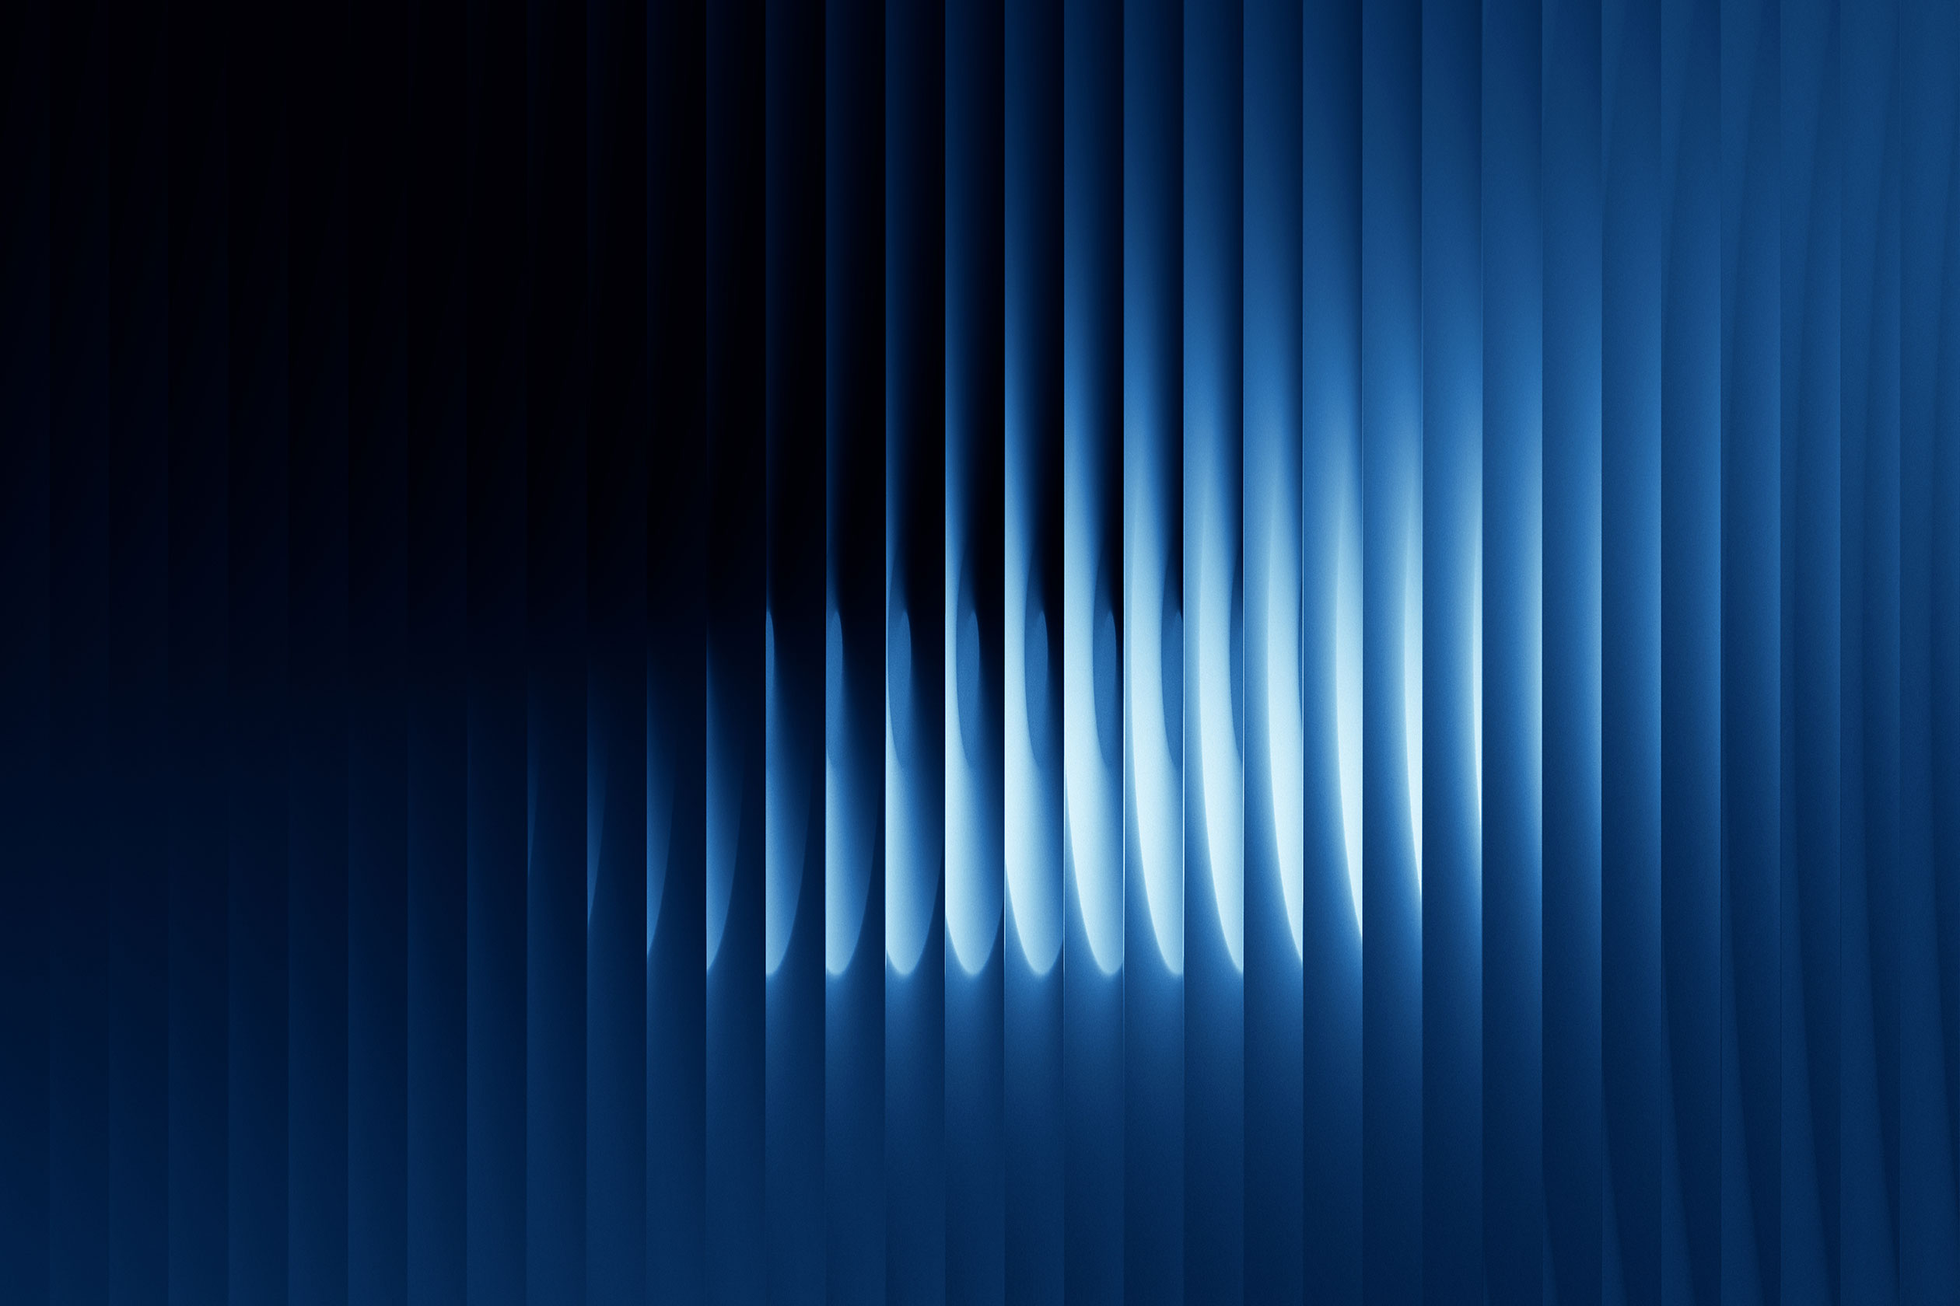
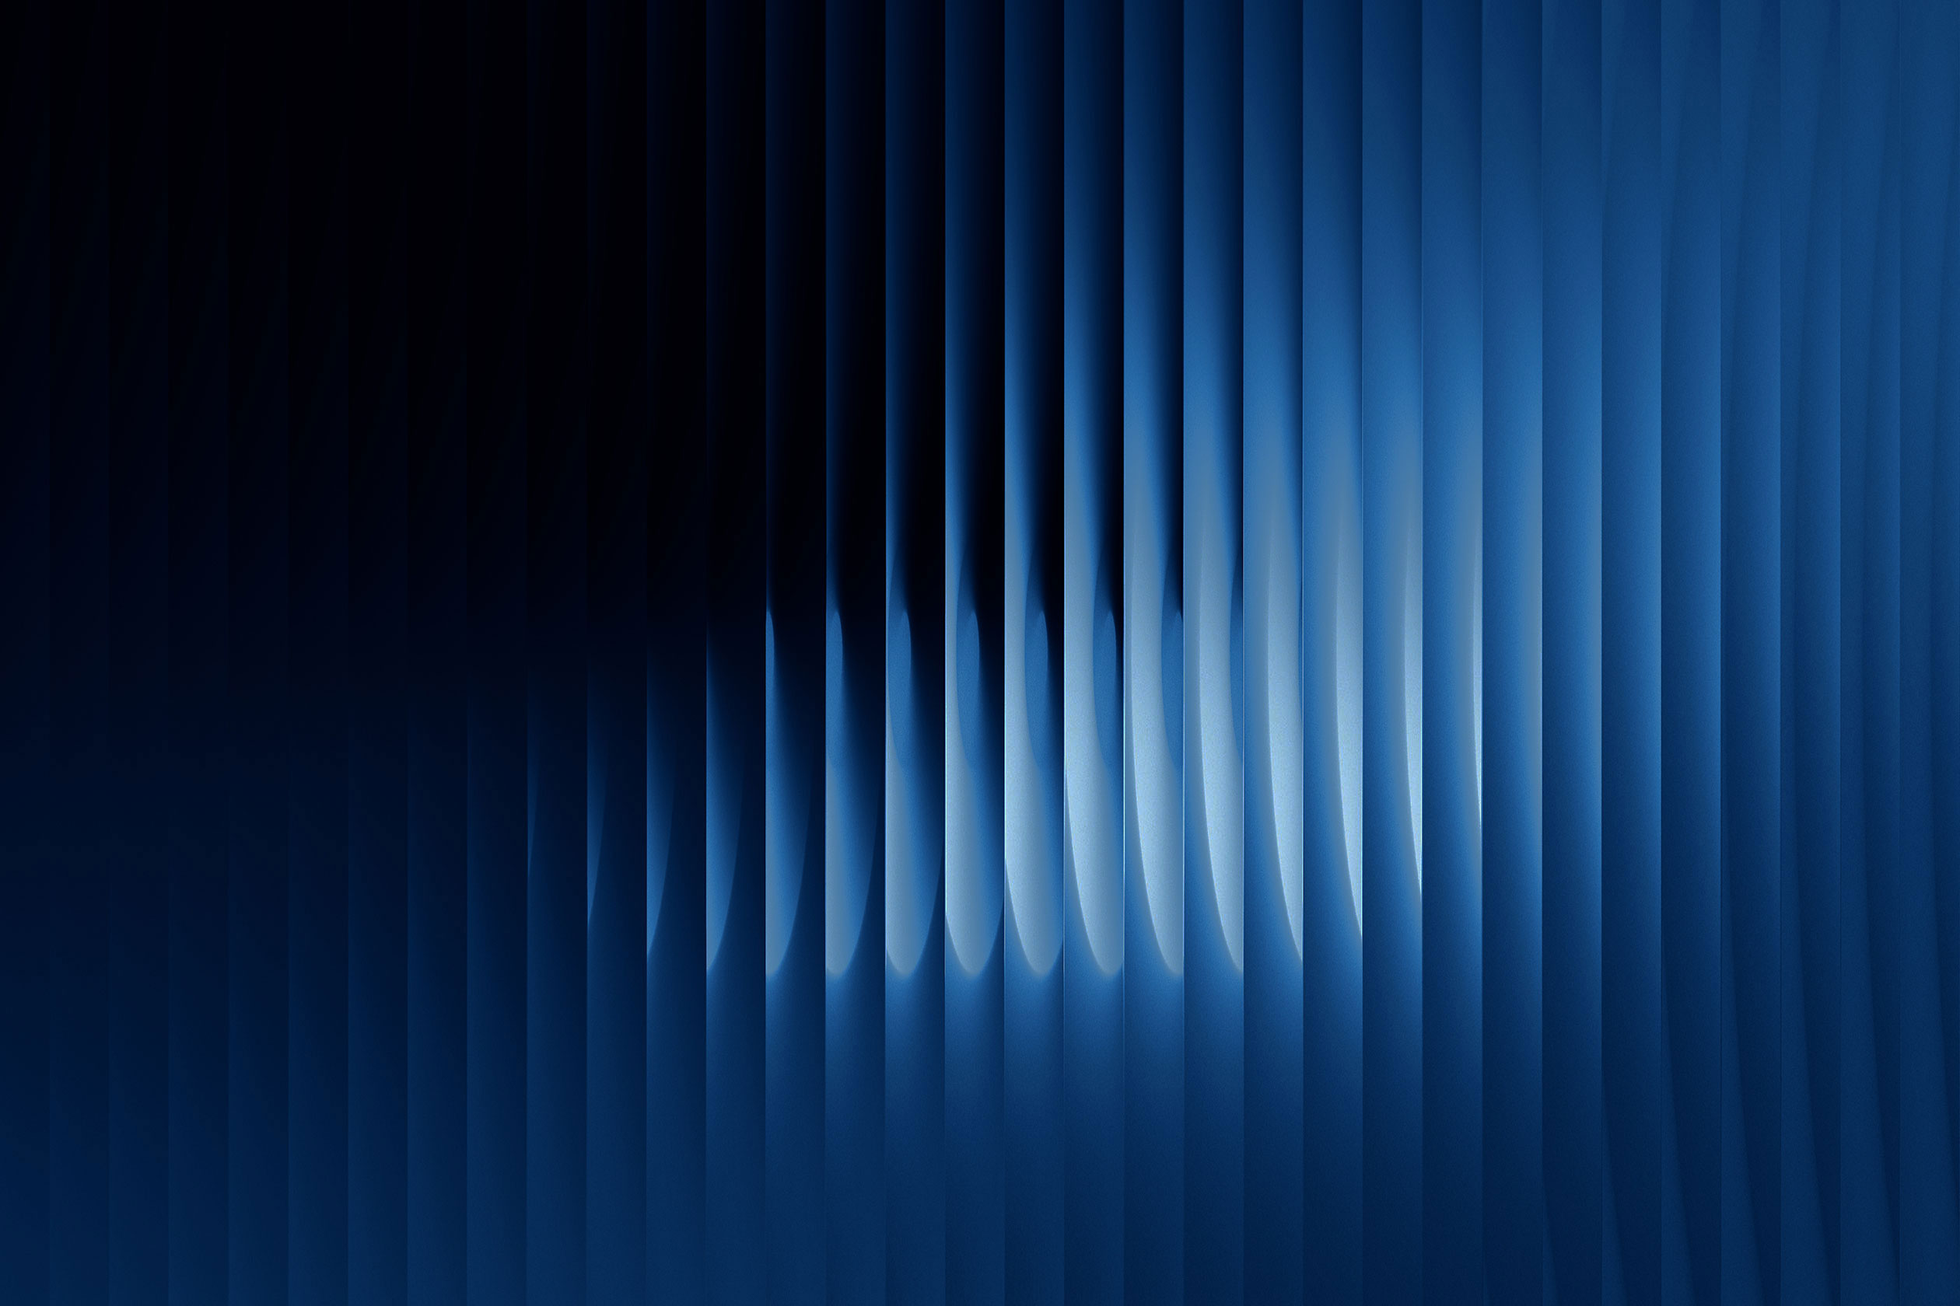
Modified dark background image to reduce the very bright areas a bit. Respecting fortify config features: deactivate registration, password resets and email verification via fortify features, respecting these changes in back- and frontend.

Changed region(s): [[0.3714, 0.3405, 0.8357, 0.7429]]

diff --git a/resources/app/pages/Auth/Login.vue b/resources/app/pages/Auth/Login.vue
@@ -1,6 +1,6 @@
 <script setup lang="ts">
-import { Form, Head, Link } from "@inertiajs/vue3";
-import { ref } from "vue";
+import { Form, Head, Link, usePage } from "@inertiajs/vue3";
+import { computed, ref } from "vue";
 import Checkbox from "Components/Form/Checkbox.vue";
 import FormGroup from "Components/Form/FormGroup.vue";
 import FormLegend from "Components/Form/FormLegend.vue";
@@ -12,9 +12,9 @@ import LoadingSpinner from "Components/Visual/LoadingSpinner.vue";
 defineOptions({ layout: NarrowLayout });
 defineProps<{
     status?: string;
-    canResetPassword: boolean;
-    canRegister: boolean;
 }>();
+const page = usePage();
+const features = computed(() => page.props.features);
 const showPassword = ref(false);
 </script>
 
@@ -23,7 +23,6 @@ const showPassword = ref(false);
         ><title>{{ $t("pages.login.title") }}</title></Head
     >
     <headline>{{ $t("pages.login.title") }}</headline>
-    Status: {{ status }}<br />
     <Form action="/login" method="post" class="form" #default="{ errors, processing }">
         <form-legend :required="true" />
         <form-group
@@ -64,9 +63,15 @@ const showPassword = ref(false);
         </form-group>
         <form-group>
             <link-group :label="$t('pages.login.nav-label')">
-                <Link v-if="canRegister" class="text-link" href="/register">{{ $t("pages.register.link") }}</Link>
-                <Link v-if="canResetPassword" class="text-link" href="/forgot">{{ $t("pages.forgot.link") }}</Link>
-                <Link class="text-link" href="/resend-verification">{{ $t("pages.resend-verification.link") }}</Link>
+                <Link v-if="features.registration" class="text-link" href="/register">{{
+                    $t("pages.register.link")
+                }}</Link>
+                <Link v-if="features.resetPasswords" class="text-link" href="/forgot">{{
+                    $t("pages.forgot.link")
+                }}</Link>
+                <Link v-if="features.emailVerification" class="text-link" href="/resend-verification">{{
+                    $t("pages.resend-verification.link")
+                }}</Link>
             </link-group>
         </form-group>
     </Form>

diff --git a/resources/app/pages/Auth/Forgot.vue b/resources/app/pages/Auth/Forgot.vue
@@ -1,6 +1,6 @@
 <script setup lang="ts">
-import { Form, Head, Link } from "@inertiajs/vue3";
-import { ref } from "vue";
+import { Form, Head, Link, usePage } from "@inertiajs/vue3";
+import { computed, ref } from "vue";
 import FormGroup from "Components/Form/FormGroup.vue";
 import FormLegend from "Components/Form/FormLegend.vue";
 import RadioButtonGroup from "Components/Form/Radio/RadioButtonGroup.vue";
@@ -10,6 +10,8 @@ import Icon from "Components/Visual/Icon.vue";
 import LinkGroup from "Components/Visual/LinkGroup.vue";
 import LoadingSpinner from "Components/Visual/LoadingSpinner.vue";
 defineOptions({ layout: NarrowLayout });
+const page = usePage();
+const features = computed(() => page.props.features);
 const types = [
     { value: "password", label: "pages.forgot.type.password", checked: true, icon: "key" },
     { value: "name", label: "pages.forgot.type.username", checked: false, icon: "account" }
@@ -68,7 +70,7 @@ const onChange = (ev: { target: { value: string } }) => {
             </button>
         </form-group>
         <form-group>
-            <link-group :label="$t('pages.login.nav-label')">
+            <link-group v-if="features.emailVerification" :label="$t('pages.login.nav-label')">
                 <Link class="text-link" href="/resend-verification">{{ $t("pages.resend-verification.link") }}</Link>
             </link-group>
         </form-group>

diff --git a/resources/app/components/Landmarks/Header/UserMenu/UserMenu.vue b/resources/app/components/Landmarks/Header/UserMenu/UserMenu.vue
@@ -6,6 +6,7 @@ import Icon from "Components/Visual/Icon.vue";
 import ThemeSwitch from "./ThemeSwitch/ThemeSwitch.vue";
 const page = usePage();
 const user = computed(() => page.props.auth.user);
+const features = computed(() => page.props.features);
 const handleLogout = () => {
     router.flushAll();
     closePopover();
@@ -30,13 +31,13 @@ const closePopover = () => {
                     {{ $t("pages.login.link") }}
                 </Link>
             </li>
-            <li v-if="!user">
+            <li v-if="!user && features.resetPasswords">
                 <Link class="popover-list-item" href="/forgot" @click="closePopover">
                     <icon name="key" :size="1" />
                     {{ $t("pages.forgot.link") }}
                 </Link>
             </li>
-            <li v-if="!user">
+            <li v-if="!user && features.registration">
                 <Link class="popover-list-item" href="/register" @click="closePopover">
                     <icon name="register" :size="1" />
                     {{ $t("pages.register.link") }}

diff --git a/resources/types/inertia.d.ts b/resources/types/inertia.d.ts
@@ -15,6 +15,11 @@ declare module "@inertiajs/core" {
             };
             locale: string;
             supportedLocales: string[];
+            features: {
+                registration: boolean;
+                resetPasswords: boolean;
+                emailVerification: boolean;
+            };
             flash: {
                 message: string;
                 type: FlashType;

diff --git a/routes/web.php b/routes/web.php
@@ -1,6 +1,7 @@
 <?php
 
 use Illuminate\Support\Facades\Route;
+use Laravel\Fortify\Features;
 use \App\Http\Middleware\HandleControllerPrecognitiveRequest;
 
 /******************************************************************************
@@ -23,40 +24,43 @@ Route::get('/imprint', [\App\Http\Controllers\GuestController::class, 'imprint']
  * Auth pages, not logged in
  *****************************************************************************/
 Route::middleware(['guest:'.config('fortify.guard')])->group( function() {
-    // register
-    Route::get('/register', [\App\Http\Controllers\Auth\AuthController::class, 'registerView'])
-        ->name('register');
-    // login
     Route::get('/login', [\App\Http\Controllers\Auth\AuthController::class, 'loginView'])
         ->name('login');
-    // email verification (no auth required - uses signed URL)
-    Route::get('/verify-email/{id}/{hash}', \App\Http\Controllers\Auth\VerifyEmailController::class)
-        ->middleware(['signed', 'throttle:6,1'])
-        ->name('verify-email');
-    // forgot password or username
-    Route::get('/forgot', [\App\Http\Controllers\Auth\ForgotController::class, 'show'])
-        ->name('forgot');
-    Route::post('/forgot', [\App\Http\Controllers\Auth\ForgotController::class, 'store'])
-        ->middleware(['throttle:6,1', HandleControllerPrecognitiveRequest::class])
-        ->name('forgot.store');
-    // reset password
-    Route::get('reset-password', [\App\Http\Controllers\Auth\NewPasswordController::class, 'show'])
-        ->name('password.reset');
-    Route::post('reset-password', [\App\Http\Controllers\Auth\NewPasswordController::class, 'store'])
-        ->middleware([HandleControllerPrecognitiveRequest::class])
-        ->name('password.reset');
-    // resend verification
-    Route::get('resend-verification', [\App\Http\Controllers\Auth\ResendVerificationController::class, 'show'])
-        ->name('verification.resend');
-    Route::post('resend-verification', [\App\Http\Controllers\Auth\ResendVerificationController::class, 'store'])
-        ->middleware(['throttle:6,1', HandleControllerPrecognitiveRequest::class])
-        ->name('verification.resend');
+
+    if (Features::enabled(Features::registration())) {
+        Route::get('/register', [\App\Http\Controllers\Auth\AuthController::class, 'registerView'])
+            ->name('register');
+    }
+
+    if (Features::enabled(Features::resetPasswords())) {
+        Route::get('/forgot', [\App\Http\Controllers\Auth\ForgotController::class, 'show'])
+            ->name('forgot');
+        Route::post('/forgot', [\App\Http\Controllers\Auth\ForgotController::class, 'store'])
+            ->middleware(['throttle:6,1', HandleControllerPrecognitiveRequest::class])
+            ->name('forgot.store');
+        Route::get('reset-password', [\App\Http\Controllers\Auth\NewPasswordController::class, 'show'])
+            ->name('password.reset');
+        Route::post('reset-password', [\App\Http\Controllers\Auth\NewPasswordController::class, 'store'])
+            ->middleware([HandleControllerPrecognitiveRequest::class])
+            ->name('password.reset');
+    }
+
+    if (Features::enabled(Features::emailVerification())) {
+        Route::get('/verify-email/{id}/{hash}', \App\Http\Controllers\Auth\VerifyEmailController::class)
+            ->middleware(['signed', 'throttle:6,1'])
+            ->name('verify-email');
+        Route::get('resend-verification', [\App\Http\Controllers\Auth\ResendVerificationController::class, 'show'])
+            ->name('verification.resend');
+        Route::post('resend-verification', [\App\Http\Controllers\Auth\ResendVerificationController::class, 'store'])
+            ->middleware(['throttle:6,1', HandleControllerPrecognitiveRequest::class])
+            ->name('verification.resend');
+    }
 });
 
 /******************************************************************************
  * Authed pages
  *****************************************************************************/
-Route::middleware(['auth', 'verified'])->group( function() {
+Route::middleware(array_filter(['auth', Features::enabled(Features::emailVerification()) ? 'verified' : null]))->group( function() {
     // Dashboard
     Route::get('/dashboard', [\App\Http\Controllers\User\DashboardController::class, 'show'])
         ->name('dashboard');

diff --git a/app/Providers/FortifyServiceProvider.php b/app/Providers/FortifyServiceProvider.php
@@ -71,13 +71,15 @@ class FortifyServiceProvider extends ServiceProvider
         Fortify::updateUserProfileInformationUsing(UpdateUserProfileInformation::class);
         Fortify::updateUserPasswordsUsing(UpdateUserPassword::class);
 
-        VerifyEmail::createUrlUsing(function ($notifiable) {
-            return URL::temporarySignedRoute(
-                'verify-email',
-                Carbon::now()->addMinutes(Config::get('auth.verification.expire', 60)),
-                ['id' => $notifiable->getKey(), 'hash' => sha1($notifiable->getEmailForVerification())]
-            );
-        });
+        if (Features::enabled(Features::emailVerification())) {
+            VerifyEmail::createUrlUsing(function ($notifiable) {
+                return URL::temporarySignedRoute(
+                    'verify-email',
+                    Carbon::now()->addMinutes(Config::get('auth.verification.expire', 60)),
+                    ['id' => $notifiable->getKey(), 'hash' => sha1($notifiable->getEmailForVerification())]
+                );
+            });
+        }
     }
 
     /**
@@ -88,7 +90,7 @@ class FortifyServiceProvider extends ServiceProvider
         Fortify::authenticateThrough(function (Request $request) {
             return array_filter([
                 config('fortify.limiters.login') ? null : EnsureLoginIsNotThrottled::class,
-                EnsureEmailIsVerified::class,
+                Features::enabled(Features::emailVerification()) ? EnsureEmailIsVerified::class : null,
                 Features::enabled(Features::twoFactorAuthentication()) ? RedirectsIfTwoFactorAuthenticatable::class : null,
                 AttemptToAuthenticate::class,
                 PrepareAuthenticatedSession::class,

diff --git a/app/Http/Responses/RegisterResponse.php b/app/Http/Responses/RegisterResponse.php
@@ -5,28 +5,30 @@ namespace App\Http\Responses;
 use Illuminate\Http\JsonResponse;
 use Illuminate\Support\Facades\Auth;
 use Laravel\Fortify\Contracts\RegisterResponse as RegisterResponseContract;
+use Laravel\Fortify\Features;
 
 class RegisterResponse implements RegisterResponseContract
 {
     /**
      * Create the response for a successful registration.
      *
-     * Logs the user back out immediately after Fortify's auto-login,
-     * because the application requires email verification before allowing
-     * access. Flashes a success message and redirects to the welcome page.
+     * When email verification is enabled, logs the user back out
+     * (undoing Fortify's auto-login) and redirects to the welcome page.
+     * When disabled, keeps the session and redirects to the dashboard.
      *
      * @param  mixed  $request
      * @return JsonResponse|\Symfony\Component\HttpFoundation\Response
      */
     public function toResponse($request): JsonResponse|\Symfony\Component\HttpFoundation\Response
     {
-        // Fortify auto-logs in after registration; undo this since we
-        // require email verification before allowing login.
-        Auth::logout();
-
         $request->session()->flash('message', __('auth.registered'));
         $request->session()->flash('type', 'success');
 
-        return redirect()->route('welcome');
+        if (Features::enabled(Features::emailVerification())) {
+            Auth::logout();
+            return redirect()->route('welcome');
+        }
+
+        return redirect(config('fortify.home'));
     }
 }

diff --git a/app/Http/Responses/ProfileInformationUpdatedResponse.php b/app/Http/Responses/ProfileInformationUpdatedResponse.php
@@ -5,15 +5,16 @@ namespace App\Http\Responses;
 use Illuminate\Http\JsonResponse;
 use Illuminate\Support\Facades\Auth;
 use Laravel\Fortify\Contracts\ProfileInformationUpdatedResponse as ProfileInformationUpdatedResponseContract;
+use Laravel\Fortify\Features;
 
 class ProfileInformationUpdatedResponse implements ProfileInformationUpdatedResponseContract
 {
     /**
      * Create the response for a successful profile information update.
      *
-     * When the email changed the user's verification is cleared, so we
-     * log them out and redirect to the login page. Otherwise we simply
-     * redirect back with a success flash.
+     * When email verification is enabled and the email changed (verification
+     * cleared), logs the user out and redirects to login. Otherwise redirects
+     * back with a success flash.
      *
      * @param  mixed  $request
      * @return JsonResponse|\Symfony\Component\HttpFoundation\Response
@@ -24,9 +25,8 @@ class ProfileInformationUpdatedResponse implements ProfileInformationUpdatedResp
             return new JsonResponse('', 200);
         }
 
-        $emailChanged = is_null($request->user()->email_verified_at);
-
-        if ($emailChanged) {
+        if (Features::enabled(Features::emailVerification()) &&
+            is_null($request->user()->email_verified_at)) {
             Auth::logout();
 
             $request->session()->flash('message', __('auth.profile_updated_email'));

diff --git a/app/Http/Controllers/Auth/AuthController.php b/app/Http/Controllers/Auth/AuthController.php
@@ -6,37 +6,17 @@ use App\Http\Controllers\Controller;
 use Illuminate\Http\Request;
 use Inertia\Inertia;
 use Inertia\Response;
-use Laravel\Fortify\Features;
 
 class AuthController extends Controller
 {
-    /**
-     * Display the registration page.
-     *
-     * Renders the Inertia registration view where new users can create an account.
-     *
-     * @param  Request  $request
-     * @return Response
-     */
     public function registerView(Request $request): Response
     {
-        return Inertia::render('Auth/Register', []);
+        return Inertia::render('Auth/Register');
     }
 
-    /**
-     * Display the login page.
-     *
-     * Renders the Inertia login view, passing Fortify feature flags so the
-     * frontend can conditionally show registration and password-reset links.
-     *
-     * @param  Request  $request
-     * @return Response
-     */
     public function loginView(Request $request): Response
     {
         return Inertia::render('Auth/Login', [
-            'canResetPassword' => Features::enabled(Features::resetPasswords()),
-            'canRegister' => Features::enabled(Features::registration()),
             'status' => $request->session()->get('status'),
         ]);
     }

diff --git a/app/Http/Middleware/HandleInertiaRequests.php b/app/Http/Middleware/HandleInertiaRequests.php
@@ -4,6 +4,7 @@ namespace App\Http\Middleware;
 
 use Illuminate\Http\Request;
 use Inertia\Middleware;
+use Laravel\Fortify\Features;
 
 class HandleInertiaRequests extends Middleware
 {
@@ -46,6 +47,11 @@ class HandleInertiaRequests extends Middleware
             ],
             'locale' => app()->getLocale(),
             'supportedLocales' => config('mbo.app.supportedLocales'),
+            'features' => [
+                'registration' => Features::enabled(Features::registration()),
+                'resetPasswords' => Features::enabled(Features::resetPasswords()),
+                'emailVerification' => Features::enabled(Features::emailVerification()),
+            ],
             'flash' => [
                 'message' => fn () => $request->session()->get('message'),
                 'type' => fn () => $request->session()->get('type'),

diff --git a/app/Actions/Fortify/UpdateUserProfileInformation.php b/app/Actions/Fortify/UpdateUserProfileInformation.php
@@ -7,6 +7,7 @@ use Illuminate\Contracts\Auth\MustVerifyEmail;
 use Illuminate\Support\Facades\Validator;
 use Illuminate\Validation\Rule;
 use Laravel\Fortify\Contracts\UpdatesUserProfileInformation;
+use Laravel\Fortify\Features;
 
 class UpdateUserProfileInformation implements UpdatesUserProfileInformation
 {
@@ -42,7 +43,8 @@ class UpdateUserProfileInformation implements UpdatesUserProfileInformation
         ])->validate();
 
         if ($input['email'] !== $user->email &&
-            $user instanceof MustVerifyEmail) {
+            $user instanceof MustVerifyEmail &&
+            Features::enabled(Features::emailVerification())) {
             $this->updateVerifiedUser($user, $input);
         } else {
             $user->forceFill([

diff --git a/app/Models/User.php b/app/Models/User.php
@@ -10,6 +10,7 @@ use Illuminate\Database\Eloquent\Factories\HasFactory;
 use Illuminate\Foundation\Auth\User as Authenticatable;
 use Illuminate\Notifications\Notifiable;
 use Illuminate\Database\Eloquent\Concerns\HasUuids;
+use Laravel\Fortify\Features;
 
 class User extends Authenticatable implements MustVerifyEmail, HasLocalePreference
 {
@@ -62,6 +63,10 @@ class User extends Authenticatable implements MustVerifyEmail, HasLocalePreferen
 
     public function sendEmailVerificationNotification(): void
     {
+        if (!Features::enabled(Features::emailVerification())) {
+            return;
+        }
+
         $this->notify(new VerifyEmailNotification);
     }
 
